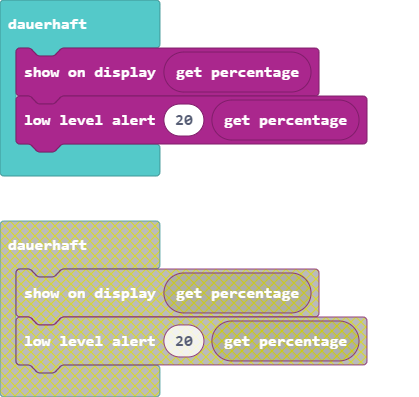
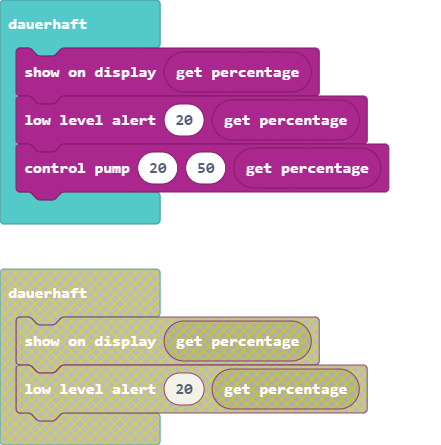
Aktualisiere pxt.json, main.blocks, main.ts, WaterLevelSensor.ts

diff --git a/WaterLevelSensor.ts b/WaterLevelSensor.ts
@@ -2,23 +2,30 @@
 
 //% color="#AA278D" weight=100
 namespace WaterLevelSensor {
+    /**
+     * returns the Water Level with a number between 0 and 100
+     */
     //% block
     export function getPercentage() {
         let count = 0
         let THREASHOLD = 245
         for (let index = 0; index < 8; index++) {
+            serial.writeNumber(pins.i2cReadNumber(119, NumberFormat.UInt8LE, false))
+            serial.writeString(".")
             if (pins.i2cReadNumber(119, NumberFormat.UInt8LE, false) > THREASHOLD) {
                 count++
             }
         }
         for (let index = 0; index < 12; index++) {
+            serial.writeNumber(pins.i2cReadNumber(120, NumberFormat.UInt8LE, false))
+            serial.writeString(".")
             if (pins.i2cReadNumber(120, NumberFormat.UInt8LE, false) > THREASHOLD) {
                 count++
             }
         }       
         
         //serial.writeNumber(count)
-        //serial.writeLine("  ")
+        serial.writeLine("  ")
         return count * 5
     }
     /**
@@ -39,6 +46,11 @@ namespace WaterLevelSensor {
             led.unplot(i % 5, 4 - Math.floor(i / 5))
         }
     }
+    /**
+     * makes a sound if the Water Level drops below a certain threshold
+     * @param threshold Water level that triggers the LowLevelAlert
+     * param level is the return value of getPercentage()
+     */
     //%block
     export function LowLevelAlert(threshold:number, level:number){
         if(level<threshold){
@@ -46,6 +58,22 @@ namespace WaterLevelSensor {
         }
         else{
             music.stopAllSounds()
+        }
+    }
+    /**
+     * controls a pump through pin C16 so that the water level will stay between min and max
+     * @param min starts pump
+     * @param max stops pump
+     * @param level is the Water level from getPercentage()
+     */
+    //%block
+    export function controlPump(min:number, max:number, level:number){
+        if (level<min){
+            //turn on the Pump through Pin C16 (electronic Switch)
+            pins.digitalWritePin(DigitalPin.C16, 1)
+        } 
+        else if(level>max){
+            pins.digitalWritePin(DigitalPin.C16, 0)
         }
     }
 }// Gib deinen Code hier ein

diff --git a/main.ts b/main.ts
@@ -1,4 +1,5 @@
 basic.forever(function () {
     WaterLevelSensor.showOnDisplay(WaterLevelSensor.getPercentage())
     WaterLevelSensor.LowLevelAlert(20, WaterLevelSensor.getPercentage())
+    WaterLevelSensor.controlPump(20, 50, WaterLevelSensor.getPercentage())
 })
